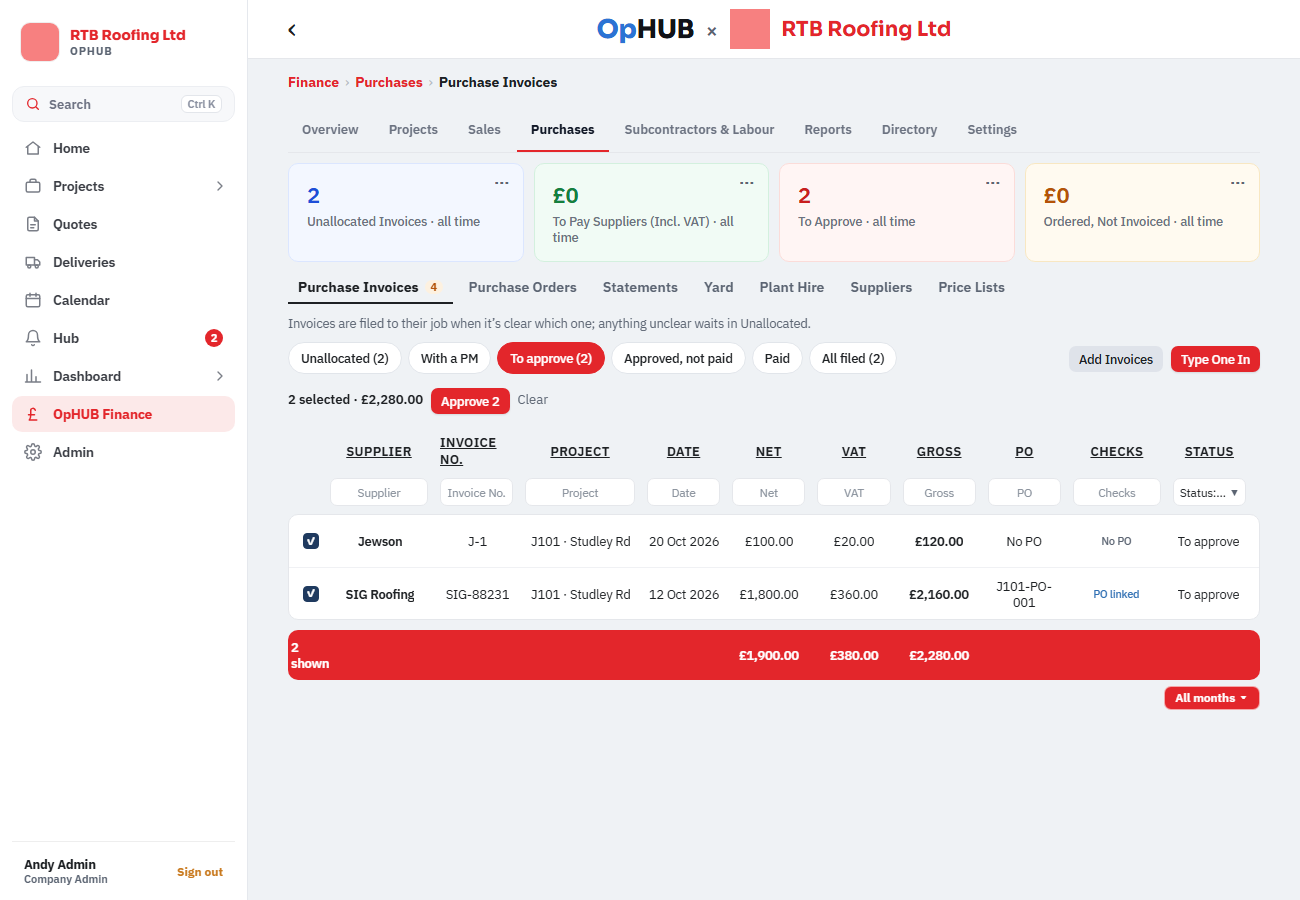
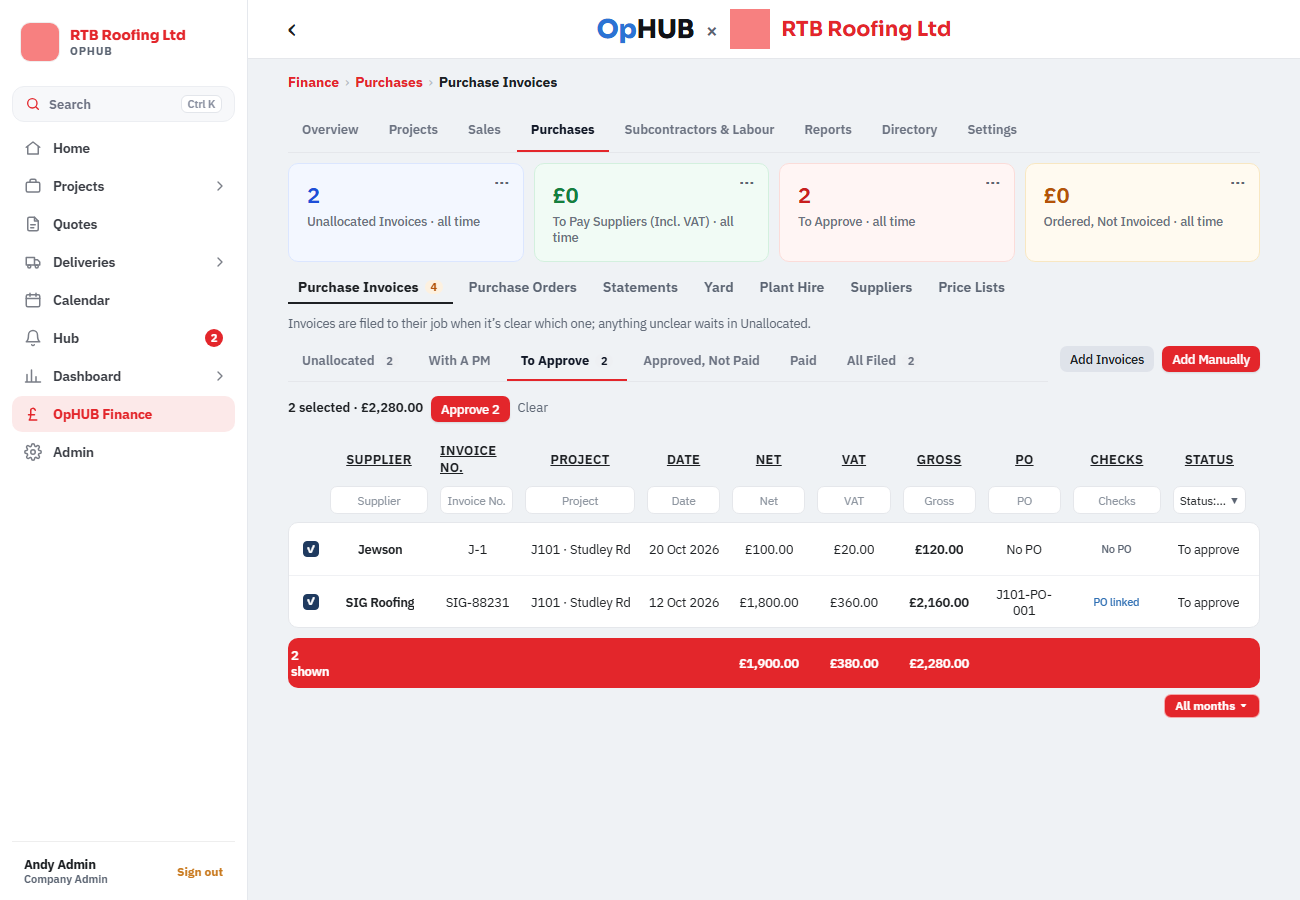
Purchase invoices on a laptop: Unallocated / With A PM / To Approve / Approved, Not Paid / Paid / All Filed as underlined tabs like the Finance tab row, not chips, with every word capitalised (Andy, 5 Nov). pibulk-check.js updated; pitabs-shots.js.
Claude-Session: https://claude.ai/code/session_012KhfNvBEbifMJmPdX7yZfp

diff --git a/app-native/src/components/FinPurchases.tsx b/app-native/src/components/FinPurchases.tsx
@@ -12,7 +12,7 @@ import { inPeriod, useStatPeriods } from '@/lib/useStatPeriods';
 import { Pressable, Text, TextInput, View } from 'react-native';
 
 import { FinFilterBar, type FilterPart, type FilterSel } from '@/components/FinFilterBar';
-import { FinChip, FinRow, FinStat } from '@/components/FinNav';
+import { FinRow, FinStat, FinTabRow } from '@/components/FinNav';
 import { Cell, FinChoicePop, FinTable, FootPick } from '@/components/FinTable';
 import { pickJob } from '@/components/FinSales';
 import { chooseAction, confirmAsk, useToast } from '@/components/toast';
@@ -27,7 +27,7 @@ import { useAuth } from '@/lib/auth';
 import { PI_STATUS, poInvoiced } from '@/lib/rules/finBook';
 import { fdate, FIN_TRIAL_MSG, finBlocked, jobTag, money, plantCost, round2, today } from '@/lib/rules/finance';
 import { monthLabel, monthOf, monthsIn, valueTest } from '@/lib/rules/finFilters';
-import { base, radius, useDesk } from '@/theme/theme';
+import { base, radius, useDesk, useTheme } from '@/theme/theme';
 
 type Row = Record<string, any>;
 const box = { borderWidth: 1, borderColor: base.line, borderRadius: radius.input, padding: 9, color: base.ink, backgroundColor: base.card };
@@ -99,6 +99,7 @@ export function PurchasesLists({ tab, siteId, f: f0 }: { tab: 'orders' | 'invoic
   const { data } = usePurchases(me?.org_id, siteId);
   // Filter: status, supplier, project and month, tick as many as you like. Purchase invoices keep one view at a time, as each shows a different list.
   const desk = useDesk();
+  const th = useTheme();
   const [sel, setFilt] = useState<FilterSel>({ status: tab === 'orders' ? (desk ? [] : ['open']) : tab === 'invoices' && f0 ? [f0] : [], sup: [], job: [], mon: [] });
   const [sort, setSort] = useState('new');
   const [val, setVal] = useState('');
@@ -178,11 +179,24 @@ export function PurchasesLists({ tab, siteId, f: f0 }: { tab: 'orders' | 'invoic
     const show = parts.find((p) => p.single);
     // Lists drawn as cards have no headings to search by, so they keep a slim search box.
     const cards = tab === 'plant' || (tab === 'invoices' && ['job', 'pm'].includes(String((cur || sel).status[0] || '')));
+    const on = (cur || sel).status[0];
     return (
-      <View style={{ flexDirection: 'row', flexWrap: 'wrap', alignItems: 'center', gap: 6, marginBottom: 10 }}>
-        {show?.items.map((it) => <FinChip key={it.v} on={(cur || sel).status[0] === it.v} label={it.l} n={it.n} onPress={() => setFilt({ ...sel, status: [it.v] })} />)}
-        {cards && <TextInput value={q} onChangeText={setQ} placeholder={ph} style={[box, { flexGrow: 1, minWidth: 220, maxWidth: 360, marginBottom: 0, paddingVertical: 6, fontSize: 13 }]} />}
-      </View>
+      <>
+        {/* Underlined tabs like the Overview / Sales / Purchases row above (Andy, 5 Nov 2026), not chips. */}
+        {!!show && (
+          <FinTabRow>
+            {show.items.map((it) => (
+              <Pressable key={it.v} onPress={() => setFilt({ ...sel, status: [it.v] })} accessibilityRole="tab" accessibilityState={{ selected: on === it.v }} style={{ paddingVertical: 10, paddingHorizontal: 14, borderBottomWidth: 2, borderBottomColor: on === it.v ? th.brand1 : 'transparent' }}>
+                <View style={{ flexDirection: 'row', alignItems: 'center', gap: 6 }}>
+                  <Text style={{ fontSize: 13, fontWeight: on === it.v ? '700' : '600', color: on === it.v ? '#111827' : '#6b7280' }}>{it.l}</Text>
+                  {it.n ? <Text style={{ fontSize: 10.5, fontWeight: '700', color: on === it.v ? '#111827' : '#6b7280', backgroundColor: '#EEF0F3', borderRadius: 9, minWidth: 18, textAlign: 'center', paddingHorizontal: 5, overflow: 'hidden' }}>{it.n}</Text> : null}
+                </View>
+              </Pressable>
+            ))}
+          </FinTabRow>
+        )}
+        {cards && <TextInput value={q} onChangeText={setQ} placeholder={ph} style={[box, { minWidth: 220, maxWidth: 360, marginBottom: 10, paddingVertical: 6, fontSize: 13 }]} />}
+      </>
     );
   })() : (
     <FinFilterBar search={{ value: q, onChange: setQ, placeholder: ph }} parts={[...parts, ...commonParts]} sel={cur || sel} onChange={setFilt} moreOn={!!val}
@@ -237,7 +251,7 @@ export function PurchasesLists({ tab, siteId, f: f0 }: { tab: 'orders' | 'invoic
     const F: Record<string, (i: Row) => boolean> = { approve: (i) => ['to_approve', 'query'].includes(i.status), unpaid: (i) => i.status === 'approved' && !i.paid_on, paid: (i) => !!i.paid_on, all: () => true };
     const cnt: Record<string, number> = { job: needJob.length, pm: withPm.length, approve: toApprove.length, unpaid: unpaid.length };
     const cur = sel.status[0] || ['job', 'approve', 'pm', 'unpaid'].find((k) => cnt[k]) || 'all';
-    const chips: [string, string, number][] = [['job', 'Unallocated', needJob.length], ['pm', 'With a PM', withPm.length], ['approve', 'To approve', toApprove.length], ['unpaid', 'Approved, not paid', unpaid.length], ['paid', 'Paid', data.pinvs.filter(F.paid).length], ['all', 'All filed', data.pinvs.length]];
+    const chips: [string, string, number][] = [['job', 'Unallocated', needJob.length], ['pm', 'With A PM', withPm.length], ['approve', 'To Approve', toApprove.length], ['unpaid', 'Approved, Not Paid', unpaid.length], ['paid', 'Paid', data.pinvs.filter(F.paid).length], ['all', 'All Filed', data.pinvs.length]];
     const posBy: Record<string, Row> = {}; data.pos.forEach((p) => { posBy[p.id] = p; });
     const checks = (i: Row): [string, string][] => {
       const po = posBy[i.po_id], out: [string, string][] = [];

diff --git a/tools/test-harness/pitabs-shots.js b/tools/test-harness/pitabs-shots.js
@@ -1,0 +1,21 @@
+// Purchase invoices: the Unallocated / With A PM / To Approve ... choices as underlined tabs like the Finance
+// tab row above, not chips (Andy, 5 Nov 2026). Laptop screenshot, fake database only.
+// node pitabs-shots.js
+const {chromium, makeContext} = require('./harness');
+const seed = require('./fresh/seed');
+(async () => {
+  const browser = await chromium.launch(); const errs = [];
+  const {ctx, db} = await makeContext(browser, 'admin', [], {viewport: {width: 1300, height: 900}});
+  seed(db); db.profiles[0].finance_enabled = true; db.profiles[0].howto_dismissed = ['*']; db.organizations[0].has_pm = true;
+  const page = await ctx.newPage(); page.on('pageerror', (e) => errs.push(e.message));
+  await page.goto('http://localhost:8081/login'); await page.waitForTimeout(4000);
+  await page.fill('input[placeholder="you@yourcompany.co.uk"]', 'a@x.co'); await page.fill('input[type="password"]', 'pw123456');
+  await page.getByText('Sign In', {exact: true}).click(); await page.waitForTimeout(5000);
+  await page.goto('http://localhost:8081/fin/purchases?tab=invoices'); await page.waitForTimeout(5000);
+  const tabs = await page.getByRole('tab').allInnerTexts();
+  console.log((tabs.some((t) => /All Filed/.test(t)) ? 'PASS' : 'FAIL') + ' tabs: ' + tabs.map((t) => t.replace(/\s+/g, ' ')).join(' | '));
+  await page.getByRole('tab', {name: /All Filed/}).click(); await page.waitForTimeout(800);
+  await page.screenshot({path: 'shots/job/pitabs-1300.png'});
+  console.log('errors', errs.length ? errs.slice(0, 2).join(' | ') : 'none');
+  await browser.close();
+})();

diff --git a/tools/test-harness/pibulk-check.js b/tools/test-harness/pibulk-check.js
@@ -12,7 +12,7 @@ const seed = require('./fresh/seed');
   await page.fill('input[placeholder="you@yourcompany.co.uk"]', 'a@x.co'); await page.fill('input[type="password"]', 'pw123456');
   await page.getByText('Sign In', {exact:true}).click(); await page.waitForTimeout(5000);
   await page.goto('http://localhost:8081/fin/purchases?tab=invoices'); await page.waitForTimeout(5000);
-  const ta = page.getByText(/^To approve/); if(await ta.count()) await ta.first().click(); await page.waitForTimeout(800);
+  const ta = page.getByText(/^To Approve/i); if(await ta.count()) await ta.first().click(); await page.waitForTimeout(800);
   await page.getByText('Select All', {exact:true}).click(); await page.waitForTimeout(500); // was ☐ Tick all
   await page.screenshot({path:'shots/native_pibulk-1300.png'});
   await page.getByText(/^Approve [0-9]+$/).click(); await page.waitForTimeout(800); // Approve N, then the Yes/No question
